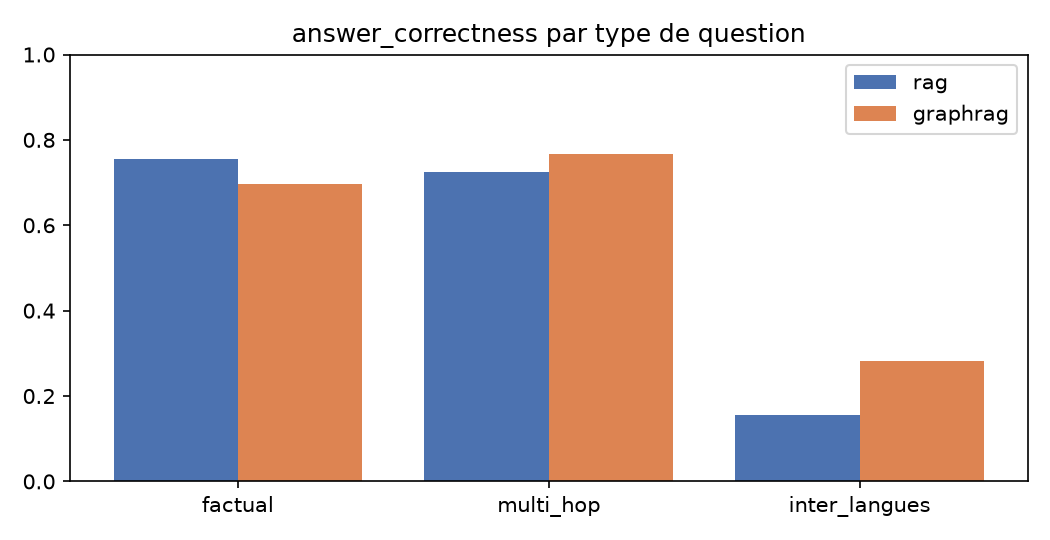
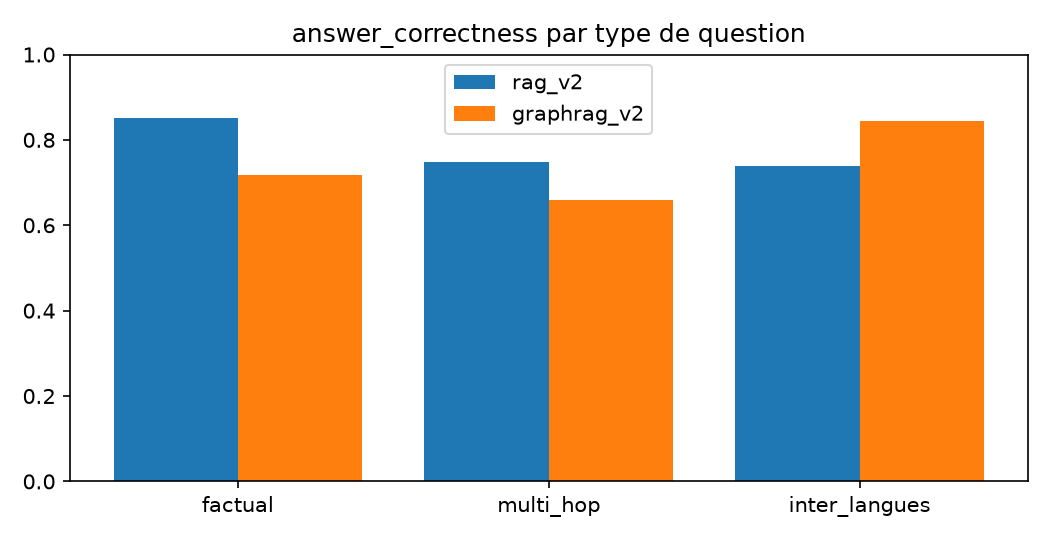
new ealuation

diff --git a/eval/results/results.md b/eval/results/results.md
@@ -1,45 +1,45 @@
 ## Tableau comparatif principal
 
-| axe | métrique | rag | graphrag |
+| axe | métrique | rag_v2 | graphrag_v2 |
 |---|---|---|---|
-| Pertinence | Answer relevancy (RAGAS) ↑ | 0.641 | 0.747 |
-| Pertinence | Answer correctness vs référence (RAGAS) ↑ | 0.636 | 0.677 |
-| Fiabilité | Faithfulness / fidélité aux sources (RAGAS) ↑ | 0.883 | 0.844 |
+| Pertinence | Answer relevancy (RAGAS) ↑ | 0.850 | 0.809 |
+| Pertinence | Answer correctness vs référence (RAGAS) ↑ | 0.801 | 0.725 |
+| Fiabilité | Faithfulness / fidélité aux sources (RAGAS) ↑ | 0.937 | 0.966 |
 | Fiabilité | Refus corrects sur questions hors corpus ↑ | 1.000 | 1.000 |
-| Fiabilité | Refus à tort sur questions répondables ↓ | 0.211 | 0.053 |
-| Récupération | Hit@k (niveau document) ↑ | 0.842 | 0.842 |
-| Récupération | MRR (niveau document) ↑ | 0.715 | 0.743 |
-| Récupération | Rappel des documents attendus @k ↑ | 0.754 | 0.763 |
-| Performances | Latence médiane par question (s) ↓ | 0.855 | 2.050 |
-| Performances | Latence p95 (s) ↓ | 1.616 | 2.774 |
-| Performances | Latence de recherche médiane (s) ↓ | 0.120 | 0.808 |
-| Performances | Tokens LLM par question ↓ | 3,338 | 15,797 |
+| Fiabilité | Refus à tort sur questions répondables ↓ | 0.045 | 0.000 |
+| Récupération | Hit@k (niveau document) ↑ | 0.955 | 1.000 |
+| Récupération | MRR (niveau document) ↑ | 0.769 | 0.761 |
+| Récupération | Rappel des documents attendus @k ↑ | 0.924 | 0.947 |
+| Performances | Latence médiane par question (s) ↓ | 0.900 | 1.887 |
+| Performances | Latence p95 (s) ↓ | 1.482 | 2.759 |
+| Performances | Latence de recherche médiane (s) ↓ | 0.118 | 0.892 |
+| Performances | Tokens LLM par question ↓ | 3,628 | 14,929 |
 | Performances | Appels LLM par question ↓ | 1.000 | 2.000 |
-| Performances | Coût estimé pour 1 000 questions ($) ↓ | 0.114 | 0.500 |
+| Performances | Coût estimé pour 1 000 questions ($) ↓ | 0.123 | 0.483 |
 
 
 ## Par type de question
 
 | pipeline | category | n_questions | hit_at_k | mrr | faithfulness | answer_correctness | latency_median_s | tokens_mean |
 |---|---|---|---|---|---|---|---|---|
-| rag | factual | 8.000 | 1.000 | 0.854 | 0.836 | 0.755 | 0.855 | 3,340 |
-| rag | inter_langues | 3.000 | 0.000 | 0.000 | 0.750 | 0.156 | 0.554 | 3,528 |
-| rag | multi_hop | 8.000 | 1.000 | 0.844 | 0.967 | 0.724 | 0.983 | 3,293 |
-| rag | hors_corpus | 3.000 | — | — | — | — | 0.468 | 3,263 |
-| graphrag | factual | 8.000 | 0.875 | 0.833 | 0.885 | 0.697 | 1.879 | 16,120 |
-| graphrag | inter_langues | 3.000 | 0.333 | 0.208 | 0.417 | 0.282 | 2.165 | 15,310 |
-| graphrag | multi_hop | 8.000 | 1.000 | 0.854 | 0.950 | 0.766 | 2.190 | 15,765 |
-| graphrag | hors_corpus | 3.000 | — | — | — | — | 1.391 | 15,510 |
+| rag_v2 | factual | 11 | 1.000 | 0.864 | 0.984 | 0.850 | 0.900 | 3,666 |
+| rag_v2 | multi_hop | 7.000 | 0.857 | 0.690 | 0.917 | 0.747 | 1.047 | 3,714 |
+| rag_v2 | inter_langues | 4.000 | 1.000 | 0.646 | 0.833 | 0.739 | 0.770 | 3,422 |
+| rag_v2 | hors_corpus | 3.000 | — | — | — | — | 0.514 | 3,564 |
+| graphrag_v2 | factual | 11 | 1.000 | 0.833 | 0.960 | 0.719 | 1.887 | 15,093 |
+| graphrag_v2 | multi_hop | 7.000 | 1.000 | 0.702 | 0.958 | 0.658 | 2.269 | 14,802 |
+| graphrag_v2 | inter_langues | 4.000 | 1.000 | 0.667 | 1.000 | 0.844 | 2.059 | 14,490 |
+| graphrag_v2 | hors_corpus | 3.000 | — | — | — | — | 1.356 | 15,205 |
 
 
 ## Par langue de la question
 
 | pipeline | lang | n_questions | hit_at_k | mrr | faithfulness | answer_correctness | latency_median_s | tokens_mean |
 |---|---|---|---|---|---|---|---|---|
-| rag | fr | 15 | 0.833 | 0.729 | 0.901 | 0.601 | 0.942 | 3,403 |
-| rag | en | 7.000 | 0.857 | 0.690 | 0.856 | 0.702 | 0.814 | 3,200 |
-| graphrag | fr | 15 | 0.833 | 0.747 | 0.815 | 0.694 | 2.084 | 15,813 |
-| graphrag | en | 7.000 | 0.857 | 0.738 | 0.889 | 0.645 | 1.900 | 15,764 |
+| rag_v2 | fr | 16 | 0.929 | 0.756 | 0.926 | 0.796 | 0.885 | 3,614 |
+| rag_v2 | en | 9.000 | 1.000 | 0.792 | 0.952 | 0.809 | 0.900 | 3,654 |
+| graphrag_v2 | fr | 16 | 1.000 | 0.768 | 0.967 | 0.756 | 1.868 | 15,110 |
+| graphrag_v2 | en | 9.000 | 1.000 | 0.750 | 0.964 | 0.680 | 1.924 | 14,606 |
 
 
 ## Coût d'indexation
@@ -65,63 +65,64 @@
 
 ## Exemples où les pipelines divergent (à commenter)
 
-### q01 (factual, fr) — J'ai un souci avec mon inscription, qui je contacte ?
+### n07 (multi_hop, fr) — Je veux devenir prof d'anglais : quel master préparer à l'UHA, dans quelle faculté, et quand passe-t-on le concours ?
 
-*Référence :* Le service de la scolarité : scolarite@uha.fr ou 03 89 33 66 99.
+*Référence :* Le master MEEF (Métiers de l'enseignement, de l'éducation et de la formation) spécialité Anglais, à la FLSH. Le concours de recrutement se passe pendant le M2.
 
-**rag** (correctness 0.17, sources livret-de-rentree-etudiant-uha, fr-formation-1-domaines-de-formation-diplomes-droit-economie-gestion, fr-formation-1-domaines-de-formation-diplomes-sciences-humaines-et-socia) :
-> Pour un problème d’inscription, adressez‑vous à la Direction des Études et de la Vie Universitaire (DEVU) : devu@uha.fr. [livret-de-rentree-etudiant-uha]
+**rag_v2** (correctness 0.51, sources fr-formation-1-domaines-de-formation-diplomes-masters, plaquette-offre-de-formation-uha, fr-formation-1-domaines-de-formation-diplomes-droit-economie-gestion, fr-formation-1-domaines-de-formation-diplomes-arts-lettres-et-langues) :
+> Le master à préparer est le **Master Anglais** proposé dans le domaine « Arts, lettres et civilisations », qui dépend de la **Faculté des Lettres, Langues et Sciences Humaines (FLSH)** de l’UHA[plaquette-offre-de-formation-uha].  
+Le contexte ne précise pas la date ou le moment où le concours de professeur d’anglais doit être passé. Je ne trouve pas cette information dans les documents disponibles.
 
-**graphrag** (correctness 0.82, sources livret-de-rentree-etudiant-uha, plaquette-offre-de-formation-uha, fr-formation-1-orientation-decouverte-des-formations-1-immersion-dans-un, plaquette-uha-formations-bi-trinationales-1e4600) :
-> Pour un problème d’inscription, vous devez contacter le Service de Scolarité Centrale de l’UHA à l’adresse scolarite@uha.fr (téléphone 03 89 33 66 99) [livret-de-rentree-etudiant-uha].
+**graphrag_v2** (correctness 0.86, sources fr-formation-1-domaines-de-formation-diplomes-masters, plaquette-offre-de-formation-uha, fr-formation-1-domaines-de-formation-diplomes-arts-lettres-et-langues, fr-formation-1-domaines-de-formation-diplomes-metiers-de-l-enseignement) :
+> Le master à préparer est le **Master MEEF – spécialité Anglais**, proposé par la **Faculté des Lettres, Langues et Sciences Humaines (FLSH)** de l’UHA ; le concours de recrutement des professeurs s’ouvre aux étudiants inscrits en **2ᵉ année de master (M2)** et se déroule pendant cette année [fr-formation-1-domaines-de-formation-diplomes-metiers-de-l-enseignement] .
 
-### q15 (multi_hop, fr) — Je suis sportif de haut niveau : y a-t-il des matières ouvertes de sport, et qui m'accompagne ?
+### n23 (hors_corpus, fr) — Quel est le mot de passe du Wi-Fi de l'UHA ?
 
-*Référence :* Oui, les matières ouvertes ont un domaine « Activités sportives et bien-être ». Le statut de sportif de haut niveau prévoit un suivi par les enseignants du SUAPS.
+*Référence :* Je ne sais pas : les documents citent les réseaux (eduroam et UHA) mais ne donnent aucun mot de passe.
 
-**rag** (correctness 0.09, sources fr-formation-1-accompagnement-a-la-reussite-1-matieres-ouvertes, fr-formation-1-domaines-de-formation-diplomes-droit-economie-gestion, livret-de-rentree-etudiant-uha) :
+**rag_v2** (correctness 0.55, sources fr-formation-1-accompagnement-a-la-reussite-1-numerique, fr-formation-1-orientation-decouverte-des-formations-1-accompagnement-a, livret-de-rentree-etudiant-uha, infographie-elan) :
 > Je ne trouve pas cette information dans les documents disponibles.
 
-**graphrag** (correctness 0.39, sources fr-formation-1-accompagnement-a-la-reussite-1-matieres-ouvertes, livret-de-rentree-etudiant-uha, fr-formation-1-accompagnement-a-la-reussite-1, fr-formation-1-accompagnement-a-la-reussite-1-elan-eveil-a-la-liberte-et) :
-> Oui, des matières ouvertes sont proposées dans le domaine « Activités sportives et bien‑être », accessible à tous les étudiants ; le Service Universitaire des Activités Physiques et Sportives (SUAPS) vous accompagne spécifiquement en tant que sportif de haut niveau en vous offrant un statut dédié et des aménagements (ex. : report d’examens, accès à la salle de musculation, etc.)[fr-formation-1-accompagnement-a-la-reussite-1-matieres-ouvertes][livret-de-rentree-etudiant-uha]
-
-### q21 (inter_langues, fr) — Est-ce que l'UHA a un domaine de formation sur le développement durable ?
-
-*Référence :* Oui : « Science & Sustainability » (sciences et durabilité) fait partie des cinq grands domaines de formation de l'UHA, avec Interculturality ; Law, Politics & Societal studies ; Management ; Digital studies & Innovation industries.
-
-**rag** (correctness 0.30, sources plaquette-offre-de-formation-uha) :
-> Oui, l’UHA propose des formations axées sur le développement durable, notamment dans le domaine « Sciences, Technologies, Santé » avec des parcours tels que « Risques et environnement », « Ingénierie environnementale et énergies nouvelles » et le master « Sciences et génie des matériaux » qui prépare à développer des procédés et matériaux durables [plaquette-offre-de-formation-uha::1]. De plus, le projet Mat‑Light 4.0 vise explicitement à former la nouvelle génération aux procédés et matériaux durables pour la transition énergétique et environnementale [plaquette-offre-de-formation-uha::1].
-
-**graphrag** (correctness 0.48, sources plaquette-offre-de-formation-uha, rapport-activite-demouha-2022-2026-1e4600, livret-de-rentree-etudiant-uha, fr-formation-1-facultes-iut-ecoles-d-ingenieurs-uha-business-school) :
-> Oui, l’UHA propose un domaine de formation dédié à la transition écologique et sociétale, intitulé « Sciences de la transition écologique et sociétale », qui porte sur le développement durable [plaquette-offre-de-formation-uha].
-
-### q18 (multi_hop, en) — Where can I take French classes, and does that service also offer a digital certification?
-
-*Référence :* At the Learning Center, which also supports the Pix digital certification.
-
-**rag** (correctness nan, sources en-education-and-training-fields-of-training-and-qualifications, en-education-and-training-information-and-orientation, fr-formation-1-accompagnement-a-la-reussite-1-langues-certifications-aut, plaquette-uha-formations-bi-trinationales-1e4600) :
-> You can attend face‑to‑face French Langue Étrangère (FLE) courses offered by the university’s Learning Center (ForCe) – these classes are reserved for foreign students[fr-formation-1-accompagnement-a-la-reussite-1-langues-certifications-aut].  
-The Learning Center also provides the Pix digital certification, which evaluates and attests to students’ digital skills[fr-formation-1-accompagnement-a-la-reussite-1-langues-certifications-aut].
-
-**graphrag** (correctness 0.92, sources en-education-and-training-fields-of-training-and-qualifications, rapport-activite-demouha-2022-2026-1e4600, fr-formation-1-accompagnement-a-la-reussite-1-langues-certifications-aut, plaquette-uha-formations-bi-trinationales-1e4600) :
-> You can take French‑as‑a‑foreign‑language courses at the University of Haute‑Alsace’s Learning Center, which organizes these language courses for non‑native speakers [en-education-and-training-fields-of-training-and-qualifications]. The same Learning Center also provides digital certification (the Pix certification) for students [fr-formation-1-accompagnement-a-la-reussite-1-pedagogie-universitaire-in].
-
-### q19 (multi_hop, en) — How close is UHA to the Swiss border, and can I take courses at other universities nearby?
-
-*Référence :* UHA is at the heart of the Three Frontiers region, right on Basel's doorstep. Yes: through Eucor – The European Campus (5 universities within about 80 km), enrolled students can take courses at the other member universities and have them validated in their own programme.
-
-**rag** (correctness 0.67, sources plaquette-offre-de-formation-uha, en-education-and-training-international-education, en-education-and-training-information-and-orientation, fr-formation-1-accompagnement-a-la-reussite-1-mobilites-internationales) :
-> UHA is situated in the heart of the Upper Rhine region, essentially on Basel’s doorstep, so it lies right next to the Swiss border[en-education-and-training-international-education]. Through the Eucor – The European Campus network, any UHA student can enrol in courses at the other member universities within about 80 km and have those credits recognised by UHA[en-education-and-training-international-education].
-
-**graphrag** (correctness nan, sources plaquette-offre-de-formation-uha, en-education-and-training-international-education, fr-formation-1-accompagnement-a-la-reussite-1-mobilites-internationales, livret-de-rentree-etudiant-uha) :
-> UHA is located right on the doorstep of Basel, giving it immediate proximity to the Swiss border[en-education-and-training-international-education]. Through its membership in the Eucor – The European Campus network, any UHA student can enrol in courses at partner universities such as the University of Basel, Fribourg or Karlsruhe and have the credits recognised by UHA[en-education-and-training-international-education].
-
-### q20 (inter_langues, fr) — Est-ce que la plupart des formations sont à temps plein, avec un stage ensuite ?
-
-*Référence :* Oui : la majorité des formations de l'UHA se suivent à temps plein à l'université, puis sont complétées par une période de stage en entreprise. Certaines formations sont aussi proposées en apprentissage.
-
-**rag** (correctness 0.08, sources fr-formation-1-formation-tout-au-long-de-la-vie, fr-formation-1-domaines-de-formation-diplomes-licences, fr-formation-1-formations-en-alternance-apprentissage, fr-formation-1) :
+**graphrag_v2** (correctness 0.67, sources fr-formation-1-accompagnement-a-la-reussite-1-numerique, livret-de-rentree-etudiant-uha, fr-formation-1-accompagnement-a-la-reussite-1-langues-certifications-aut, infographie-elan) :
 > Je ne trouve pas cette information dans les documents disponibles.
 
-**graphrag** (correctness nan, sources fr-formation-1-formation-tout-au-long-de-la-vie, fr-formation-1-domaines-de-formation-diplomes-masters, fr-formation-1-formations-en-alternance-apprentissage, fr-formation-1-domaines-de-formation-diplomes-diplomes-d-ingenieurs) :
-> Oui, la plupart des formations sont dispensées à temps plein et comprennent ensuite un stage long obligatoire — notamment les masters, qui intègrent généralement une période de stage long dans leur cursus [fr-formation-1-domaines-de-formation-diplomes-masters] ; de même, le diplôme d’ingénieur prévoit un stage long de fin d’études en troisième année [fr-formation-1-domaines-de-formation-diplomes-diplomes-d-ingenieurs].
+### n12 (factual, fr) — Depuis quand l'IUT de Mulhouse propose-t-il des formations trinationales, et avec quels partenaires ?
+
+*Référence :* Depuis 1997, en partenariat avec la Berufsakademie de Lörrach et la Fachhochschule Beider Basel.
+
+**rag_v2** (correctness 0.92, sources plaquette-uha-formations-bi-trinationales-1e4600, fr-formation-1-facultes-iut-ecoles-d-ingenieurs-iutm-institut-universita, fr-formation-1-formations-bi-trinationales-transfrontalieres) :
+> L’IUT de Mulhouse propose des formations trinationales depuis 1997, en partenariat avec la Berufsakademie de Lörrach (Allemagne) et la Fachhochschule Beider Basel (Suisse)[fr-formation-1-facultes-iut-ecoles-d-ingenieurs-iutm-institut-universita].
+
+**graphrag_v2** (correctness 0.92, sources plaquette-uha-formations-bi-trinationales-1e4600, fr-formation-1-accompagnement-a-la-reussite-1-elan-eveil-a-la-liberte-et, fr-formation-1-facultes-iut-ecoles-d-ingenieurs-iutm-institut-universita, fr-formation-1-accompagnement-a-la-reussite-1-learning-center) :
+> L’IUT de Mulhouse propose des formations trinationales depuis 1997, en partenariat avec la Berufsakademie de Lörrach (Allemagne) et la Fachhochschule Beider Basel (Suisse)[fr-formation-1-facultes-iut-ecoles-d-ingenieurs-iutm-institut-universita::0].
+
+### n10 (multi_hop, fr) — Si je pars un semestre dans une université partenaire, est-ce que mes notes comptent à l'UHA, et qui je contacte ?
+
+*Référence :* Oui : les résultats obtenus dans l'université partenaire sont reconnus par l'UHA, transcrits en notes françaises, et les crédits ECTS sont attribués automatiquement. Contact : international@uha.fr.
+
+**rag_v2** (correctness 0.83, sources fr-formation-1-accompagnement-a-la-reussite-1-mobilites-internationales, fr-formation-1-domaines-de-formation-diplomes-sciences-humaines-et-socia, livret-de-rentree-etudiant-uha) :
+> Oui, les résultats d’examens obtenus dans l’université partenaire sont reconnus par l’UHA, transcrits en notes françaises et les crédits ECTS correspondants sont automatiquement attribués ; vous pouvez donc valider votre semestre à l’étranger [fr-formation-1-accompagnement-a-la-reussite-1-mobilites-internationales].  
+Pour toute question, il faut contacter le service international à l’adresse international@uha.fr [fr-formation-1-accompagnement-a-la-reussite-1-mobilites-internationales].
+
+**graphrag_v2** (correctness nan, sources fr-formation-1-accompagnement-a-la-reussite-1-mobilites-internationales, infographie-elan, livret-de-rentree-etudiant-uha, fr-formation-1-facultes-iut-ecoles-d-ingenieurs-iutc-institut-universita) :
+> Oui, les notes obtenues à l’étranger sont reconnues, transcrites en notes françaises et les crédits ECTS sont attribués par l’UHA ; vous pouvez vous renseigner auprès du service international à l’adresse international@uha.fr [fr-formation-1-accompagnement-a-la-reussite-1-mobilites-internationales].
+
+### n19 (inter_langues, fr) — Quels sont les départements de la FSESJ ?
+
+*Référence :* Cinq départements : Droit ; Politique, économie et société ; Hautes études de management ; Histoire et patrimoine ; Information / communication.
+
+**rag_v2** (correctness nan, sources fr-formation-1-facultes-iut-ecoles-d-ingenieurs-fsesj-faculte-des-scienc, fr-formation-1-facultes-iut-ecoles-d-ingenieurs-flsh-faculte-des-lettres, en-education-and-training-university-components, fr-formation-1-facultes-iut-ecoles-d-ingenieurs) :
+> Les départements de la FSESJ sont : Droit ; Politique, Économie et Société ; Hautes Études de Management ; Histoire et Patrimoine ; et Information‑Communication [en-education-and-training-university-components].
+
+**graphrag_v2** (correctness 0.96, sources fr-formation-1-facultes-iut-ecoles-d-ingenieurs-fsesj-faculte-des-scienc, livret-de-rentree-etudiant-uha, en-education-and-training-university-components, fr-formation-1-facultes-iut-ecoles-d-ingenieurs-iutc-institut-universita) :
+> La FSESJ comprend cinq départements : le département de droit, le département de politique, économie et société, le département d’études supérieures de management, le département d’histoire et patrimoine, et le département d’information/communication [en-education-and-training-university-components].
+
+### n22 (inter_langues, en) — How long does the RobotHub Académie project last, and how is it funded?
+
+*Référence :* 38 months, from April 2023 to September 2026. It is co-funded by European INTERREG funds, with a total budget of 3.6 million euros, including 1.5 million from the ERDF (FEDER).
+
+**rag_v2** (correctness nan, sources fr-formation-1-grands-projets-de-formation-robothub-academie, en-education-and-training-information-and-orientation, en-education-and-training-university-components, rapport-activite-demouha-2022-2026-1e4600) :
+> The RobotHub Académie project runs for 38 months, from April 2023 to September 2026 [fr-formation-1-grands-projets-de-formation-robothub-academie]. It is co‑financed by European INTERREG funds with a total budget of €3.6 million, of which €1.5 million comes from the FEDER programme [fr-formation-1-grands-projets-de-formation-robothub-academie].
+
+**graphrag_v2** (correctness 0.94, sources fr-formation-1-grands-projets-de-formation-robothub-academie, rapport-activite-demouha-2022-2026-1e4600, fr-formation-1-accompagnement-a-la-reussite-1, fr-formation-1-grands-projets-de-formation-demouha) :
+> The RobotHub Académie project runs for 38 months, from April 2023 until September 2026 [fr-formation-1-grands-projets-de-formation-robothub-academie]. It is co‑financed by the European INTERREG programme with a total budget of €3.6 million, of which €1.5 million comes from the FEDER fund [fr-formation-1-grands-projets-de-formation-robothub-academie].
